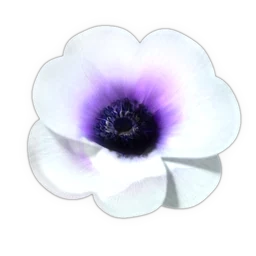
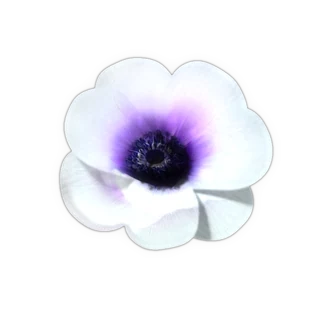
psyche-0.com: the anemone's petal seams made natural (one clean tapering gap between the scarlet and white/red-ring front flowers' upper right petals, the round hole inside it gone; the lilac left flower's round hole closed), and the left-facing flowers shown whole in a wider frame at the same size

diff --git a/assets/anemone.js b/assets/anemone.js
@@ -4,14 +4,15 @@
 (function(){
   var mark=document.querySelector("header.site .bar a.mark");
   if(!mark||document.querySelector(".anemone"))return;
-  var M={"size":256,"na":72,"looks":[{"name":"S_L","er":29.21,"prof":[130.4,129.8,128.3,123.7,107.9,108.8,107.9,106.7,105.5,101.9,97.3,94.3,92.2,89.4,84.3,78.2,71.9,63.7,58.5,54.0,52.8,55.2,59.1,63.4,67.6,70.9,72.8,74.3,75.5,77.3,83.7,93.1,102.5,109.5,113.7,116.4,121.0,123.1,121.0,111.3,97.0,103.4,115.2,119.5,115.8,113.1,111.6,107.9,100.7,96.1,96.7,97.9,97.3,96.1,95.8,97.9,101.0,102.8,101.9,100.4,108.5,115.5,118.5,121.0,123.7,123.7,119.8,113.1,108.2,123.1,128.3,129.8]},{"name":"S_F","er":30.47,"prof":[106.7,99.4,101.5,103.5,103.8,103.5,102.5,98.9,94.0,94.7,100.2,102.8,103.8,104.3,104.3,104.8,103.3,101.5,99.1,94.7,91.6,95.8,98.4,100.7,100.7,99.7,97.9,94.7,90.9,86.2,81.3,88.0,95.0,100.4,103.3,104.1,104.3,104.1,103.8,102.0,97.1,97.9,101.7,103.3,103.3,103.5,104.1,104.3,103.5,101.2,98.6,93.2,85.2,90.9,94.7,97.3,99.9,100.2,99.1,97.3,94.5,91.1,86.5,93.2,102.5,107.4,111.1,113.4,113.9,114.4,113.6,111.8]},{"name":"S_R","er":27.41,"prof":[101.3,98.9,98.1,96.6,94.4,89.2,82.9,74.7,68.9,71.0,72.3,72.9,72.6,72.9,73.1,73.1,72.3,72.6,78.7,86.3,93.7,100.0,102.6,104.7,106.6,109.2,110.5,110.2,107.3,101.0,97.3,108.7,114.7,117.6,117.6,116.8,114.7,108.9,110.0,111.8,112.1,110.0,108.9,110.0,110.8,109.4,106.6,101.6,97.9,102.3,104.2,104.7,106.3,106.8,103.7,98.9,92.9,95.5,107.1,113.9,115.5,116.0,116.3,116.3,114.4,111.6,104.7,98.9,103.4,105.0,104.4,103.1]},{"name":"W_R","er":32.65,"prof":[112.7,115.2,119.1,119.9,119.1,117.9,115.4,109.4,99.9,93.2,99.4,102.7,103.7,102.7,99.2,93.9,90.4,86.9,82.7,77.4,80.4,82.4,84.2,86.7,88.9,89.7,89.2,87.4,86.7,85.9,85.9,84.7,82.9,80.7,75.9,68.2,74.9,82.7,89.2,93.9,97.7,100.2,103.2,103.9,101.9,105.2,110.2,112.4,110.9,108.2,105.4,101.4,94.4,103.9,110.9,113.4,114.7,113.9,113.9,114.7,114.4,107.9,95.4,93.4,101.9,107.9,113.2,116.1,116.9,117.1,118.1,116.1]},{"name":"W_F","er":29.98,"prof":[111.1,108.5,102.4,94.5,97.6,102.4,105.5,105.2,104.5,104.0,101.7,98.1,92.7,86.9,85.4,87.4,88.2,88.7,89.4,89.7,89.7,87.6,84.3,80.0,77.5,86.1,92.7,97.6,100.4,102.9,104.5,105.5,105.0,103.7,102.2,100.4,97.1,90.7,93.8,98.9,102.2,104.2,105.2,105.7,104.0,100.1,100.4,105.2,106.5,106.8,106.8,106.0,103.4,100.9,96.8,89.9,92.2,100.9,105.7,108.0,108.8,109.6,109.6,108.8,106.5,104.0,102.4,107.5,110.1,111.9,112.9,112.6]},{"name":"W_L","er":27.13,"prof":[82.6,85.2,90.9,94.3,94.6,93.7,90.6,83.7,77.5,73.8,72.3,70.6,69.2,66.9,64.4,61.5,64.4,67.2,70.3,73.5,77.8,81.5,83.7,85.2,85.7,86.6,88.9,91.4,94.3,94.8,93.7,83.2,84.0,98.8,113.3,121.3,126.2,125.6,121.0,124.2,124.5,120.5,114.8,112.2,109.1,102.5,94.0,96.8,109.4,113.9,117.1,119.9,120.5,120.8,121.9,123.0,119.3,108.5,115.3,121.3,123.9,123.3,122.7,123.3,122.7,119.0,115.1,116.8,116.5,115.1,110.5,97.7]},{"name":"P_L","er":31.43,"prof":[115.1,106.8,117.4,125.0,129.0,130.7,130.2,127.9,119.1,111.1,102.8,92.6,82.9,80.6,77.8,73.2,70.1,68.1,66.7,65.2,63.8,61.5,60.7,62.9,64.7,67.5,70.9,74.6,79.2,85.7,93.1,98.6,101.7,104.2,107.4,107.4,104.5,101.1,109.7,117.6,124.2,126.2,123.6,116.8,107.7,91.7,101.7,107.1,107.4,107.7,107.7,106.2,103.7,102.0,100.0,99.7,101.4,104.0,106.8,109.4,108.8,107.4,106.5,106.0,103.4,98.8,107.7,113.6,116.2,116.2,115.6,115.9]},{"name":"P_F","er":33.0,"prof":[97.3,98.8,98.3,97.0,96.0,94.0,90.2,85.6,87.1,93.0,97.5,101.6,103.7,104.2,104.7,105.7,104.7,101.9,97.0,91.4,84.6,83.0,89.6,93.0,94.2,95.5,96.3,96.3,95.5,93.5,99.1,104.7,108.0,110.5,112.1,111.8,111.3,109.5,106.2,101.1,94.5,96.3,100.1,101.1,100.9,101.1,101.1,99.1,96.0,91.7,88.4,95.8,100.9,103.4,104.9,107.0,108.2,108.2,106.2,102.6,96.5,100.9,104.7,106.7,108.0,109.5,110.3,109.8,107.5,102.9,95.8,94.7]},{"name":"P_R","er":31.89,"prof":[96.5,92.3,87.7,84.0,80.7,76.8,72.1,69.3,72.6,76.5,80.1,82.7,85.3,88.7,91.0,92.9,93.9,95.4,97.0,97.0,94.4,95.7,99.9,104.3,107.9,110.2,111.8,113.1,112.6,109.2,100.1,79.6,92.9,104.3,112.8,116.7,117.5,117.0,114.4,111.8,108.9,104.8,101.9,103.5,103.7,103.0,101.9,100.9,96.7,90.8,83.5,93.1,103.5,109.5,112.8,112.6,111.8,110.7,109.5,105.0,103.2,110.0,113.3,114.9,115.4,115.4,113.9,108.9,102.2,98.3,99.1,98.6]},{"name":"C_R","er":43.5,"prof":[109.8,109.3,107.2,106.7,106.4,103.8,99.1,92.0,82.8,82.8,84.4,85.4,85.7,85.2,84.9,84.4,82.8,88.9,95.7,102.7,108.2,110.3,111.9,112.4,114.0,114.3,111.9,106.7,95.1,102.0,108.5,112.2,113.2,111.7,110.1,106.7,99.1,100.9,101.7,101.4,99.3,97.2,96.7,97.2,97.8,96.5,93.0,88.3,83.9,88.1,90.7,91.7,92.8,94.9,95.4,93.3,89.4,85.2,82.6,97.2,106.7,110.1,111.7,112.7,114.0,113.8,113.0,109.0,100.6,105.9,108.8,110.1]},{"name":"C_F","er":41.54,"prof":[101.5,94.2,96.8,98.6,99.2,98.9,98.1,95.0,91.1,87.3,94.8,98.6,99.9,100.7,101.5,102.0,102.0,101.0,99.4,96.8,91.7,92.7,97.1,100.7,102.3,101.8,100.7,98.9,96.1,91.4,86.5,89.3,97.1,103.0,106.9,108.7,109.0,108.7,108.5,106.9,102.3,103.0,106.7,108.0,107.7,108.0,108.5,108.0,106.2,103.6,99.4,90.4,91.1,94.8,97.6,99.4,100.7,99.9,97.9,94.5,91.4,86.7,80.8,95.5,102.0,106.2,108.2,109.8,110.3,110.0,109.3,106.7]},{"name":"C_L","er":43.61,"prof":[117.4,118.9,120.4,120.4,119.2,113.5,102.1,106.0,106.3,106.6,105.7,103.9,101.2,100.0,98.8,97.0,92.5,87.4,82.3,75.1,70.3,67.0,70.3,76.0,82.3,86.5,88.6,90.1,91.9,96.1,105.7,115.0,121.6,124.9,127.6,131.5,130.9,124.9,107.2,103.3,115.0,119.5,117.4,112.0,109.0,104.5,96.4,89.2,88.6,88.0,86.8,84.4,82.9,82.6,83.2,85.6,86.5,85.6,83.5,86.8,92.8,97.3,100.3,102.7,105.4,107.5,105.7,102.4,97.3,92.2,108.1,114.7]}],"rot":[15.0,-45.0,45.0,-35.0,-40.0,35.0,-25.0,0.0,30.0,20.0,-15.0,0.0]};
+  var M={"size":320,"na":72,"ext":149,"looks":[{"name":"S_L","er":29.21,"prof":[130.4,129.8,128.3,123.7,107.9,108.8,107.9,106.7,105.5,101.9,97.3,94.3,92.2,89.4,84.3,78.2,71.9,63.7,58.5,54.0,52.8,55.2,59.1,63.4,67.6,70.9,72.8,74.3,75.5,77.3,83.7,93.1,102.5,109.5,113.7,116.4,121.0,123.1,121.0,111.3,97.0,103.4,115.2,119.5,115.8,113.1,111.6,107.9,100.7,96.1,96.7,97.9,97.3,96.1,95.8,97.9,101.0,102.8,101.9,100.4,108.5,115.5,118.5,121.0,123.7,123.7,119.8,113.1,108.2,123.1,128.3,129.8]},{"name":"S_F","er":30.51,"prof":[106.6,99.9,101.4,103.5,104.3,103.5,102.7,99.4,94.5,94.7,100.2,103.0,103.8,104.6,104.8,105.1,103.5,102.0,99.4,95.2,92.1,96.0,98.6,101.2,101.2,99.9,97.8,95.2,90.8,86.2,82.0,88.5,95.5,100.7,103.3,104.0,104.3,104.0,103.8,101.4,97.0,97.8,101.7,103.3,103.0,103.5,104.3,104.0,103.0,100.7,98.3,92.4,84.9,90.6,94.5,96.8,99.6,99.9,98.9,97.3,94.5,90.6,86.4,92.6,102.0,106.9,110.8,113.1,113.6,114.1,113.6,111.8]},{"name":"S_R","er":27.41,"prof":[101.3,98.9,98.1,96.6,94.4,89.2,82.9,74.7,68.9,71.0,72.3,72.9,72.6,72.9,73.1,73.1,72.3,72.6,78.7,86.3,93.7,100.0,102.6,104.7,106.6,109.2,110.5,110.2,107.3,101.0,97.3,108.7,114.7,117.6,117.6,116.8,114.7,108.9,110.0,111.8,112.1,110.0,108.9,110.0,110.8,109.4,106.6,101.6,97.9,102.3,104.2,104.7,106.3,106.8,103.7,98.9,92.9,95.5,107.1,113.9,115.5,116.0,116.3,116.3,114.4,111.6,104.7,98.9,103.4,105.0,104.4,103.1]},{"name":"W_R","er":32.65,"prof":[112.7,115.2,119.1,119.9,119.1,117.9,115.4,109.4,99.9,93.2,99.4,102.7,103.7,102.7,99.2,93.9,90.4,86.9,82.7,77.4,80.4,82.4,84.2,86.7,88.9,89.7,89.2,87.4,86.7,85.9,85.9,84.7,82.9,80.7,75.9,68.2,74.9,82.7,89.2,93.9,97.7,100.2,103.2,103.9,101.9,105.2,110.2,112.4,110.9,108.2,105.4,101.4,94.4,103.9,110.9,113.4,114.7,113.9,113.9,114.7,114.4,107.9,95.4,93.4,101.9,107.9,113.2,116.1,116.9,117.1,118.1,116.1]},{"name":"W_F","er":29.98,"prof":[111.1,108.5,102.4,94.5,97.6,102.4,105.5,105.2,104.5,104.0,101.7,98.1,92.7,86.9,85.4,87.4,88.2,88.7,89.4,89.7,89.7,87.6,84.3,80.0,77.5,86.1,92.7,97.6,100.4,102.9,104.5,105.5,105.0,103.7,102.2,100.4,97.1,90.7,93.8,98.9,102.2,104.2,105.2,105.7,104.0,100.1,100.4,105.2,106.5,106.8,106.8,106.0,103.4,100.9,96.8,89.9,92.2,100.9,105.7,108.0,108.8,109.6,109.6,108.8,106.5,104.0,102.4,107.5,110.1,111.9,112.9,112.6]},{"name":"W_L","er":27.13,"prof":[82.6,85.2,90.9,94.3,94.6,93.7,90.6,83.7,77.5,73.8,72.3,70.6,69.2,66.9,64.4,61.5,64.4,67.2,70.3,73.5,77.8,81.5,83.7,85.2,85.7,86.6,88.9,91.4,94.3,94.8,93.7,83.2,84.0,98.8,113.3,121.3,126.2,125.6,121.0,124.2,124.5,120.5,114.8,112.2,109.1,102.5,94.0,96.8,109.4,113.9,117.1,119.9,120.5,120.8,121.9,123.0,119.3,108.5,115.3,121.3,123.9,123.3,122.7,123.3,122.7,119.0,115.1,116.8,116.5,115.1,110.5,97.7]},{"name":"P_L","er":31.22,"prof":[115.1,107.1,117.4,125.1,129.3,130.8,130.5,127.9,118.8,111.1,102.6,91.7,82.9,80.3,77.5,72.9,69.8,68.1,66.7,64.9,63.5,61.2,60.4,62.7,64.4,67.2,70.6,74.6,78.9,85.5,93.2,98.3,101.4,103.4,107.4,107.1,104.5,100.8,109.7,117.6,124.5,125.9,123.9,117.1,108.0,91.4,101.4,106.8,107.7,108.0,107.7,106.5,104.5,102.3,100.0,100.0,101.7,104.3,107.1,109.7,109.1,107.7,106.8,106.3,103.4,98.8,108.0,113.9,116.5,116.2,115.7,116.2]},{"name":"P_F","er":33.0,"prof":[97.3,98.8,98.3,97.0,96.0,94.0,90.2,85.6,87.1,93.0,97.5,101.6,103.7,104.2,104.7,105.7,104.7,101.9,97.0,91.4,84.6,83.0,89.6,93.0,94.2,95.5,96.3,96.3,95.5,93.5,99.1,104.7,108.0,110.5,112.1,111.8,111.3,109.5,106.2,101.1,94.5,96.3,100.1,101.1,100.9,101.1,101.1,99.1,96.0,91.7,88.4,95.8,100.9,103.4,104.9,107.0,108.2,108.2,106.2,102.6,96.5,100.9,104.7,106.7,108.0,109.5,110.3,109.8,107.5,102.9,95.8,94.7]},{"name":"P_R","er":31.89,"prof":[96.5,92.3,87.7,84.0,80.7,76.8,72.1,69.3,72.6,76.5,80.1,82.7,85.3,88.7,91.0,92.9,93.9,95.4,97.0,97.0,94.4,95.7,99.9,104.3,107.9,110.2,111.8,113.1,112.6,109.2,100.1,79.6,92.9,104.3,112.8,116.7,117.5,117.0,114.4,111.8,108.9,104.8,101.9,103.5,103.7,103.0,101.9,100.9,96.7,90.8,83.5,93.1,103.5,109.5,112.8,112.6,111.8,110.7,109.5,105.0,103.2,110.0,113.3,114.9,115.4,115.4,113.9,108.9,102.2,98.3,99.1,98.6]},{"name":"C_R","er":43.5,"prof":[109.8,109.3,107.2,106.7,106.4,103.8,99.1,92.0,82.8,82.8,84.4,85.4,85.7,85.2,84.9,84.4,82.8,88.9,95.7,102.7,108.2,110.3,111.9,112.4,114.0,114.3,111.9,106.7,95.1,102.0,108.5,112.2,113.2,111.7,110.1,106.7,99.1,100.9,101.7,101.4,99.3,97.2,96.7,97.2,97.8,96.5,93.0,88.3,83.9,88.1,90.7,91.7,92.8,94.9,95.4,93.3,89.4,85.2,82.6,97.2,106.7,110.1,111.7,112.7,114.0,113.8,113.0,109.0,100.6,105.9,108.8,110.1]},{"name":"C_F","er":41.89,"prof":[100.9,94.0,96.0,97.8,98.6,98.6,97.8,95.3,90.9,86.2,94.2,98.4,99.7,100.4,101.5,102.2,102.5,101.2,99.9,97.6,92.4,93.2,97.3,100.9,102.8,102.8,101.2,99.4,96.5,92.1,87.2,90.1,97.8,103.8,107.7,109.5,109.5,109.5,109.2,107.2,102.2,103.8,107.4,108.2,107.9,108.2,108.7,107.9,105.6,103.3,98.4,88.8,91.4,94.7,97.1,99.1,100.2,99.1,96.8,93.4,90.1,85.7,87.0,95.0,101.5,105.3,107.4,109.0,109.5,109.2,108.2,105.9]},{"name":"C_L","er":43.61,"prof":[117.4,118.9,120.4,120.4,119.2,113.5,102.1,106.0,106.3,106.6,105.7,103.9,101.2,100.0,98.8,97.0,92.5,87.4,82.3,75.1,70.3,67.0,70.3,76.0,82.3,86.5,88.6,90.1,91.9,96.1,105.7,115.0,121.6,124.9,127.6,131.5,130.9,124.9,107.2,103.3,115.0,119.5,117.4,112.0,109.0,104.5,96.4,89.2,88.6,88.0,86.8,84.4,82.9,82.6,83.2,85.6,86.5,85.6,83.5,86.8,92.8,97.3,100.3,102.7,105.4,107.5,105.7,102.4,97.3,92.2,108.1,114.7]}],"rot":[15.0,-45.0,45.0,-35.0,-40.0,35.0,-25.0,0.0,30.0,20.0,-15.0,0.0]};
   var LOOKS=M.looks,NA=M.na,S=M.size,ROT=M.rot,N=LOOKS.length;
   var HOLD=30000,TRANS=90000,SEG=HOLD+TRANS,PERIOD=SEG*N;
   var css=document.createElement("style");
-  css.textContent=".anemone{display:block;width:40px;height:40px;flex:none;align-self:center;margin:-9px -14px -9px -4px;pointer-events:none}"+
-    "@media (max-width:1120px){.anemone{width:36px;height:36px;margin:-8px -16px -8px -3px}}";
+  var EXT=M.ext||118,SC=EXT/118,D1=40*SC,G1=(D1-40)/2,D2=36*SC,G2=(D2-36)/2;
+  css.textContent=".anemone{display:block;width:"+D1+"px;height:"+D1+"px;flex:none;align-self:center;margin:"+(-9-G1)+"px "+(-14-G1)+"px "+(-9-G1)+"px "+(-4-G1)+"px;pointer-events:none}"+
+    "@media (max-width:1120px){.anemone{width:"+D2+"px;height:"+D2+"px;margin:"+(-8-G2)+"px "+(-16-G2)+"px "+(-8-G2)+"px "+(-3-G2)+"px}}";
   document.head.appendChild(css);
-  var dpr=Math.min(3,window.devicePixelRatio||1),OUT=Math.round(40*dpr*1.25);
+  var dpr=Math.min(3,window.devicePixelRatio||1),OUT=Math.round(D1*dpr*1.25);
   var cv=document.createElement("canvas");cv.className="anemone";cv.setAttribute("aria-hidden","true");cv.width=OUT;cv.height=OUT;
   var ctx=cv.getContext("2d",{willReadFrequently:false}),out=ctx.createImageData(OUT,OUT),od=out.data;
   mark.insertAdjacentElement("beforebegin",cv);
@@ -38,7 +39,7 @@
   function render(ms){
     var t=((ms%PERIOD)+PERIOD)%PERIOD,i=Math.floor(t/SEG),u=(t-i*SEG-HOLD)/TRANS;u=u<=0?0:u>=1?1:u*u*(3-2*u);
     var A=LOOKS[i],B=LOOKS[(i+1)%N],fa=px[i],fb=px[(i+1)%N],rot=ROT[i]*Math.PI/180;
-    var eA=A.er,eB=B.er,eT=eA+(eB-eA)*u,half=OUT/2,K=118/half,c=S/2;
+    var eA=A.er,eB=B.er,eT=eA+(eB-eA)*u,half=OUT/2,K=EXT/half,c=S/2;
     for(var y=0;y<OUT;y++)for(var x=0;x<OUT;x++){
       var dx=(x+.5-half)*K,dy=(y+.5-half)*K,r=Math.sqrt(dx*dx+dy*dy),ph=Math.atan2(dy,dx);
       var phA=ph-u*rot,phB=ph+(1-u)*rot,RA=prof(A,phA),RB=prof(B,phB),RT=RA+(RB-RA)*u,o=(y*OUT+x)*4;

diff --git a/map.html b/map.html
@@ -104,6 +104,6 @@ If you don’t win: Signal completed.</pre>
   <span>psyche-0.com</span>
 </div></div></footer>
 <script src="assets/console.js?v=20261026a"></script>
-<script src="assets/anemone.js?v=20261104d" defer></script>
+<script src="assets/anemone.js?v=20261105b" defer></script>
 </body>
 </html>

diff --git a/net.html b/net.html
@@ -219,7 +219,7 @@
   <span>psyche-0.com</span>
 </div></div></footer>
 <script src="assets/console.js?v=20261026a"></script>
-<script src="assets/anemone.js?v=20261104d" defer></script>
+<script src="assets/anemone.js?v=20261105b" defer></script>
 <script>
 (function(){
 var NS="http://www.w3.org/2000/svg";

diff --git a/engage.html b/engage.html
@@ -140,6 +140,6 @@
   <span>psyche-0.com</span>
 </div></div></footer>
 <script src="assets/console.js?v=20261026a"></script>
-<script src="assets/anemone.js?v=20261104d" defer></script>
+<script src="assets/anemone.js?v=20261105b" defer></script>
 </body>
 </html>

diff --git a/about.html b/about.html
@@ -56,6 +56,6 @@
   <span>psyche-0.com</span>
 </div></div></footer>
 <script src="assets/console.js?v=20261026a"></script>
-<script src="assets/anemone.js?v=20261104d" defer></script>
+<script src="assets/anemone.js?v=20261105b" defer></script>
 </body>
 </html>

diff --git a/index.html b/index.html
@@ -63,6 +63,6 @@
   <span>psyche-0.com</span>
 </div></div></footer>
 <script src="assets/console.js?v=20261026a"></script>
-<script src="assets/anemone.js?v=20261104d" defer></script>
+<script src="assets/anemone.js?v=20261105b" defer></script>
 </body>
 </html>

diff --git a/intelligence.html b/intelligence.html
@@ -79,6 +79,6 @@
   <span>psyche-0.com</span>
 </div></div></footer>
 <script src="assets/console.js?v=20261026a"></script>
-<script src="assets/anemone.js?v=20261104d" defer></script>
+<script src="assets/anemone.js?v=20261105b" defer></script>
 </body>
 </html>

diff --git a/missions.html b/missions.html
@@ -72,6 +72,6 @@
   <span>psyche-0.com</span>
 </div></div></footer>
 <script src="assets/console.js?v=20261026a"></script>
-<script src="assets/anemone.js?v=20261104d" defer></script>
+<script src="assets/anemone.js?v=20261105b" defer></script>
 </body>
 </html>

diff --git a/paper.html b/paper.html
@@ -65,6 +65,6 @@
   <span>psyche-0.com</span>
 </div></div></footer>
 <script src="assets/console.js?v=20261026a"></script>
-<script src="assets/anemone.js?v=20261104d" defer></script>
+<script src="assets/anemone.js?v=20261105b" defer></script>
 </body>
 </html>

diff --git a/sqcd-1.html b/sqcd-1.html
@@ -99,6 +99,6 @@
   <span>psyche-0.com</span>
 </div></div></footer>
 <script src="assets/console.js?v=20261026a"></script>
-<script src="assets/anemone.js?v=20261104d" defer></script>
+<script src="assets/anemone.js?v=20261105b" defer></script>
 </body>
 </html>

diff --git a/404.html b/404.html
@@ -32,6 +32,6 @@
     <div class="row-cta"><a class="ghost" href="/">Overview</a></div>
   </div>
 </section>
-<script src="assets/anemone.js?v=20261104d" defer></script>
+<script src="assets/anemone.js?v=20261105b" defer></script>
 </body>
 </html>
